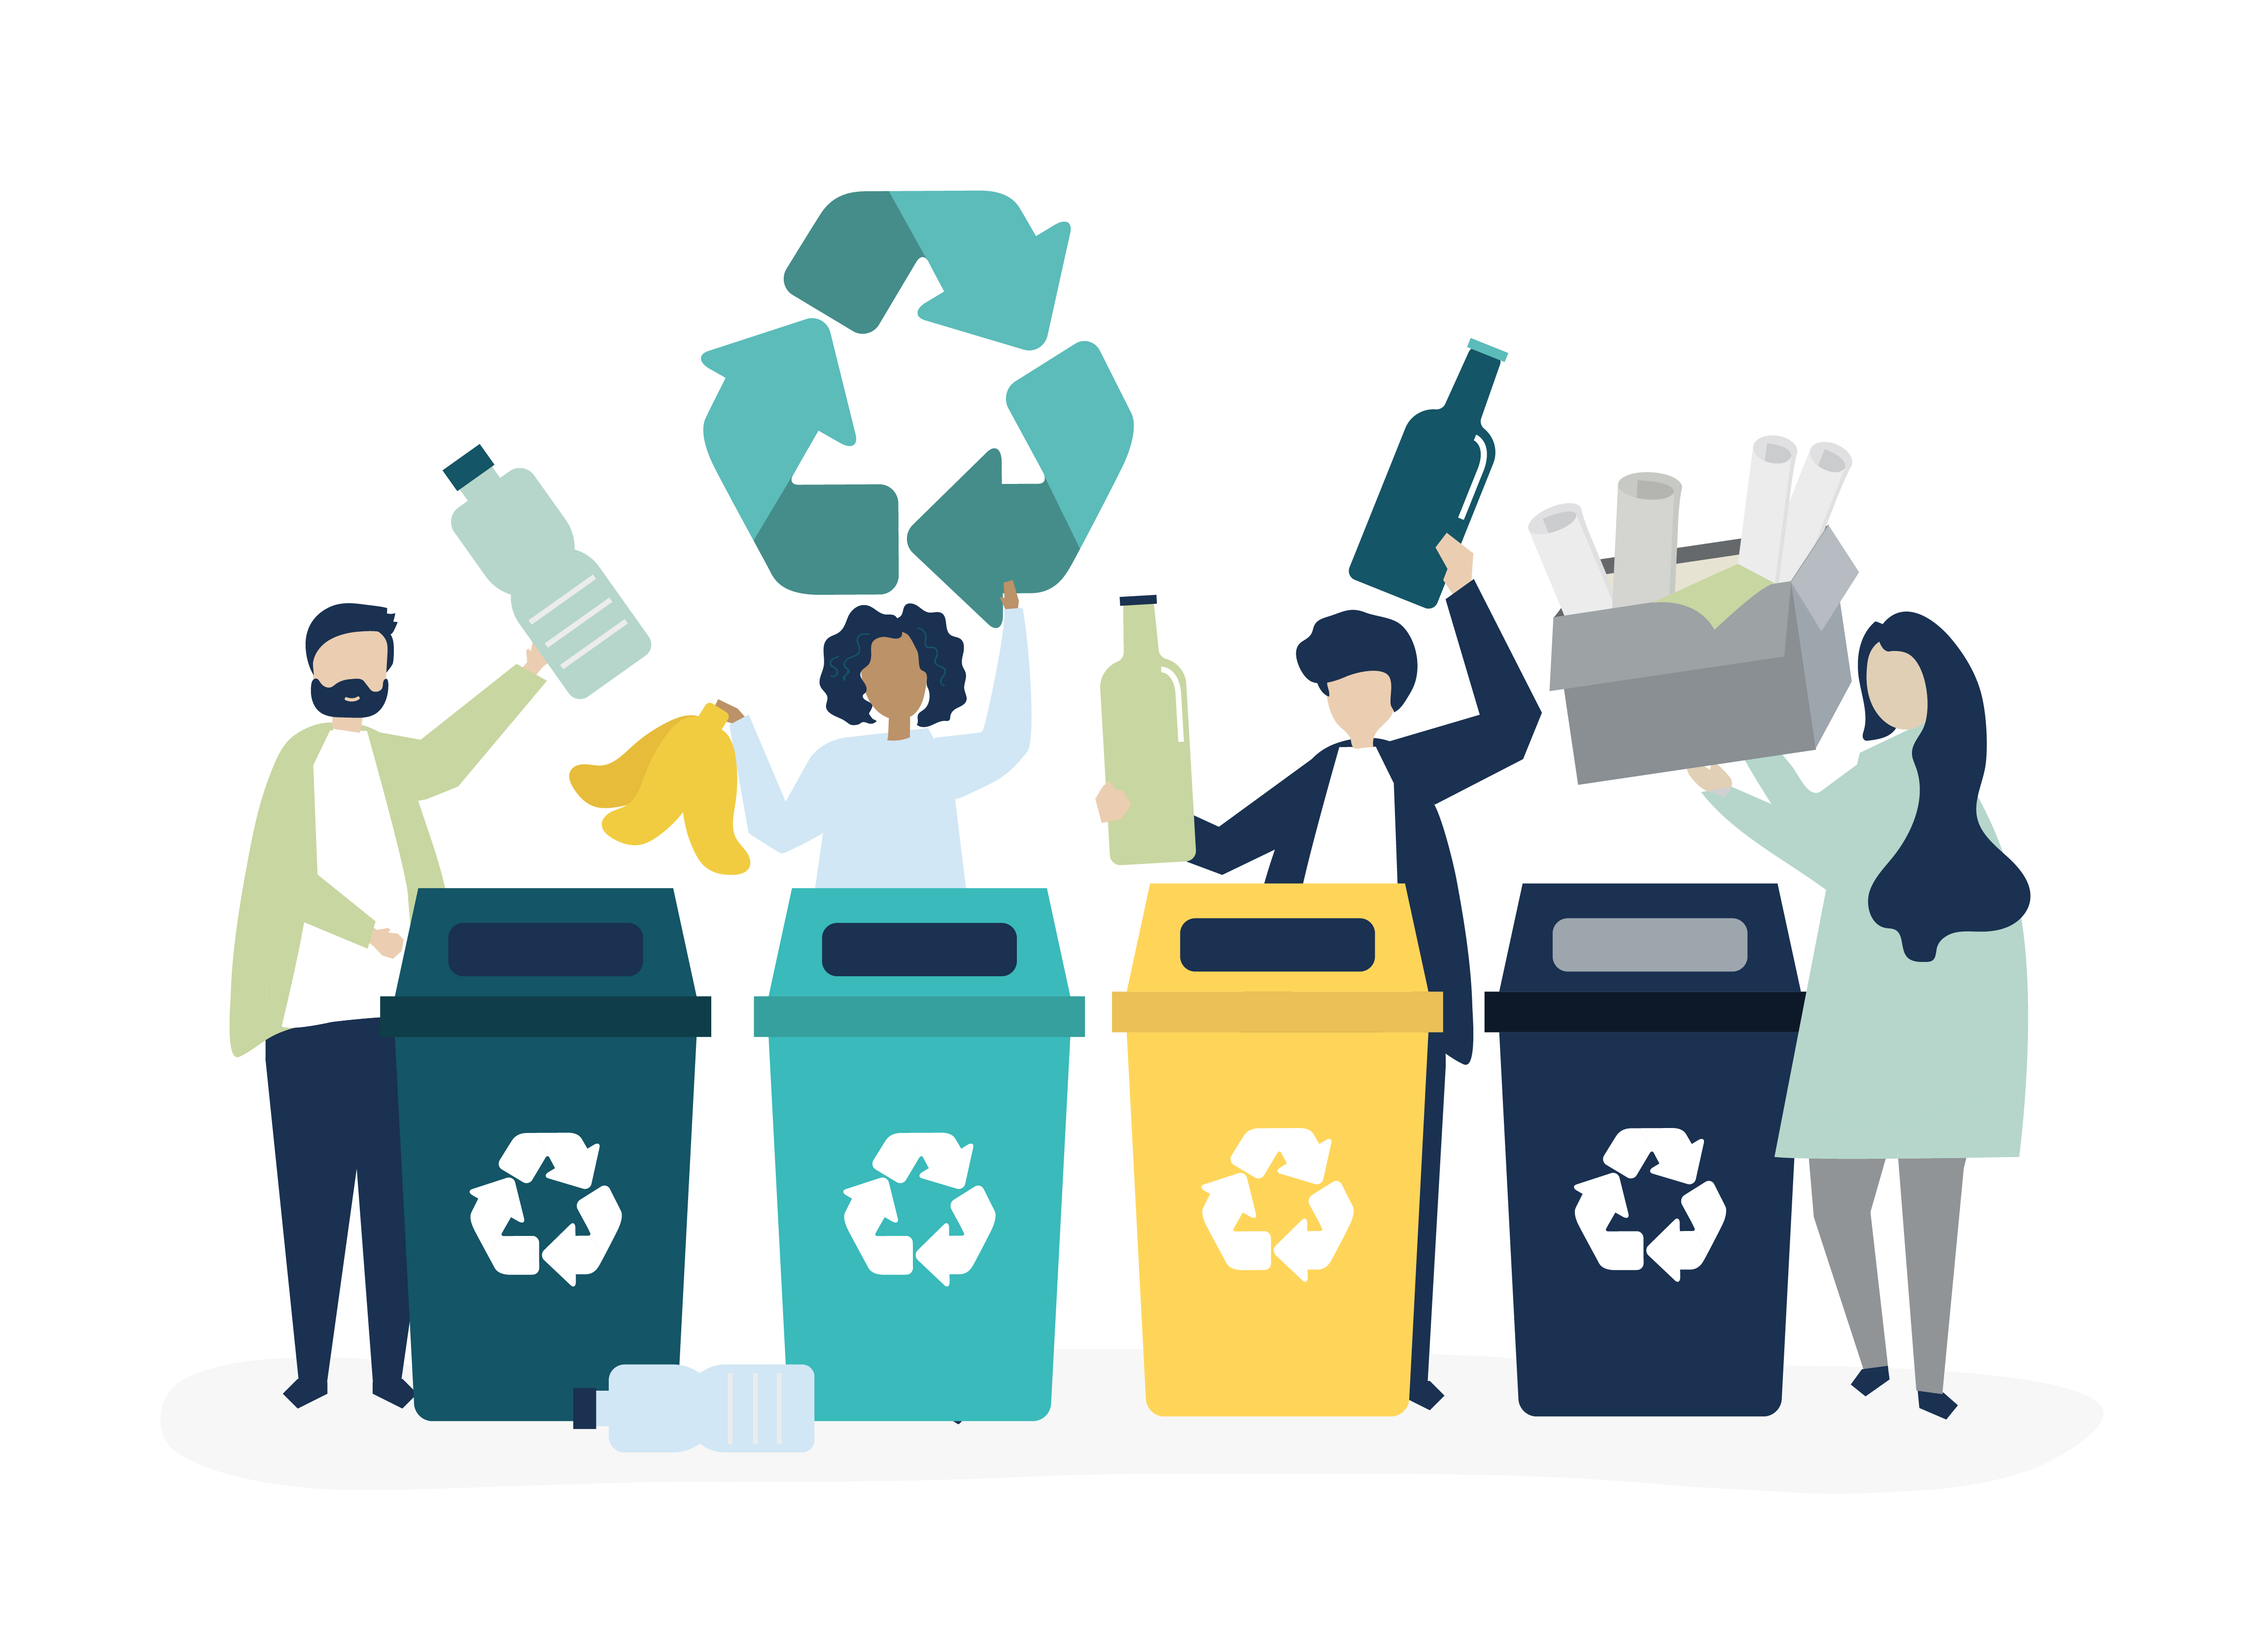
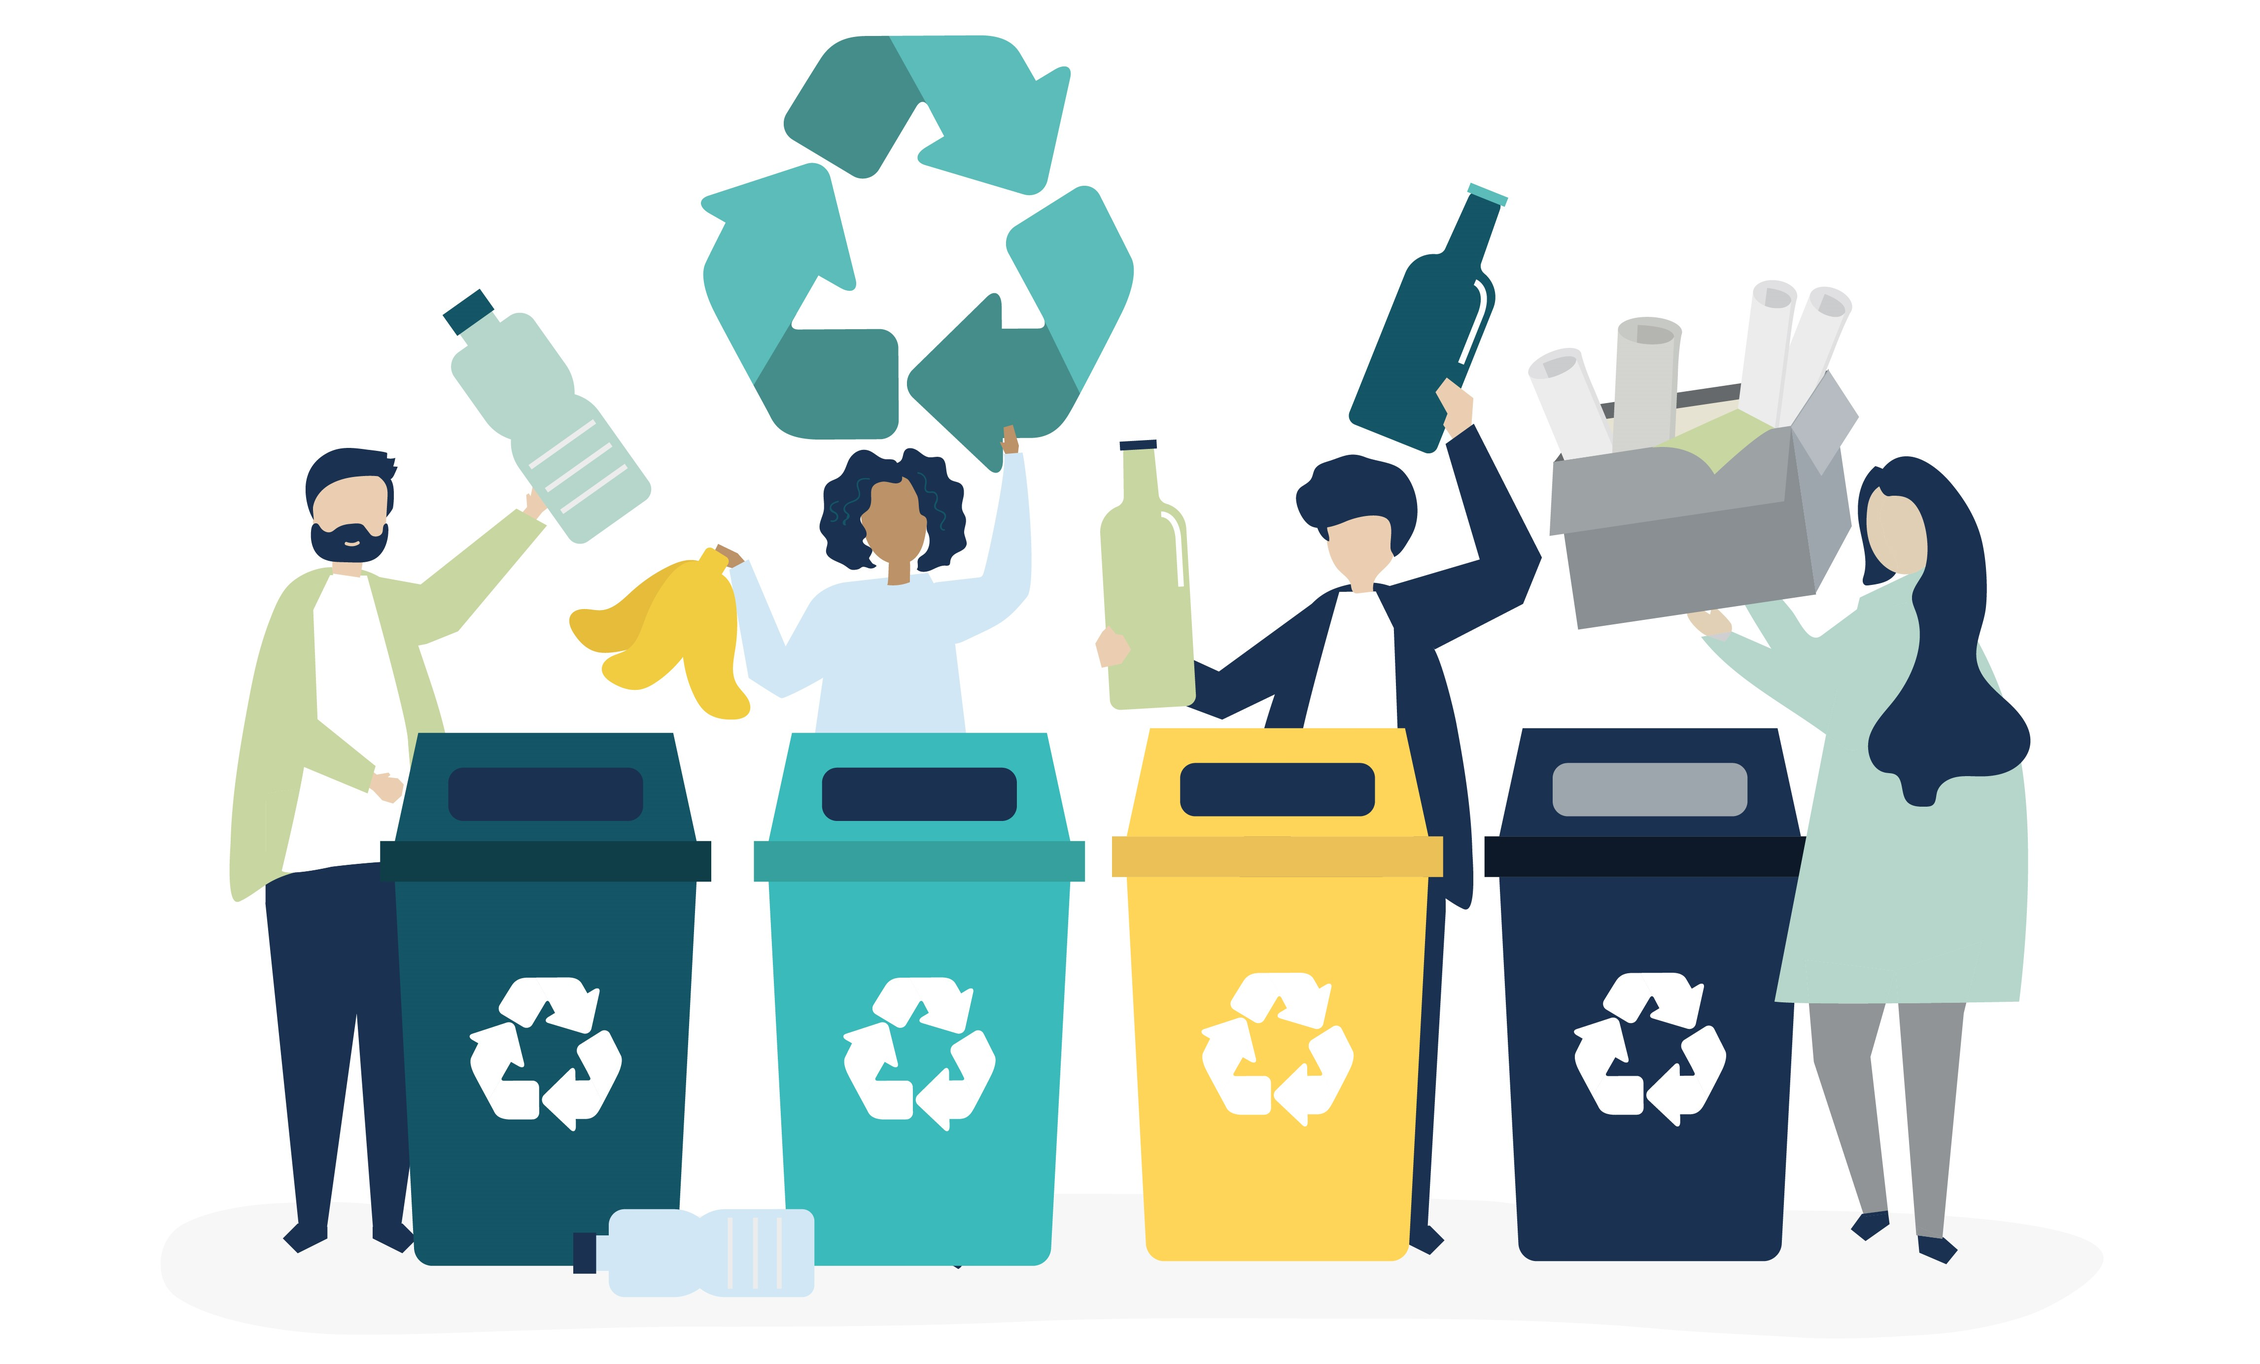
changed illustration size

diff --git a/capstone/vue/src/views/Home.vue b/capstone/vue/src/views/Home.vue
@@ -171,8 +171,10 @@ h2 {
   /* overflow: auto; */
 }
 
-.illustration {
-border: 1px solid red;}
+.illustration img {
+  border: 1px solid red;
+  max-width: 100%;
+}
 
 .counter-container {
   display: flex;
